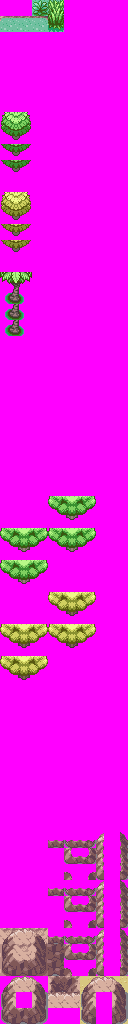
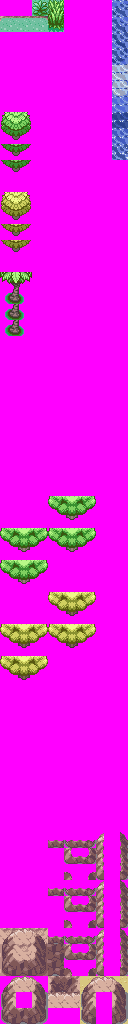
[PBL] porytiles water animations

Changed region(s): [[0.875, 0.0, 1.0, 0.1562]]

diff --git a/src/tileset_anims.c b/src/tileset_anims.c
@@ -1186,3 +1186,42 @@ static void BlendAnimPalette_BattleDome_FloorLightsNoBlend(u16 timer)
             sSecondaryTilesetAnimCallback = NULL;
     }
 }
+
+const u16 gTilesetAnims_Common_Water_Frame0[] = INCBIN_U16("data/tilesets/primary/common/anim/water/0.4bpp");
+const u16 gTilesetAnims_Common_Water_Frame1[] = INCBIN_U16("data/tilesets/primary/common/anim/water/1.4bpp");
+const u16 gTilesetAnims_Common_Water_Frame2[] = INCBIN_U16("data/tilesets/primary/common/anim/water/2.4bpp");
+const u16 gTilesetAnims_Common_Water_Frame3[] = INCBIN_U16("data/tilesets/primary/common/anim/water/3.4bpp");
+const u16 gTilesetAnims_Common_Water_Frame4[] = INCBIN_U16("data/tilesets/primary/common/anim/water/4.4bpp");
+const u16 gTilesetAnims_Common_Water_Frame5[] = INCBIN_U16("data/tilesets/primary/common/anim/water/5.4bpp");
+const u16 gTilesetAnims_Common_Water_Frame6[] = INCBIN_U16("data/tilesets/primary/common/anim/water/6.4bpp");
+const u16 gTilesetAnims_Common_Water_Frame7[] = INCBIN_U16("data/tilesets/primary/common/anim/water/7.4bpp");
+
+const u16 *const gTilesetAnims_Common_Water[] = {
+    gTilesetAnims_Common_Water_Frame0,
+    gTilesetAnims_Common_Water_Frame1,
+    gTilesetAnims_Common_Water_Frame2,
+    gTilesetAnims_Common_Water_Frame3,
+    gTilesetAnims_Common_Water_Frame4,
+    gTilesetAnims_Common_Water_Frame5,
+    gTilesetAnims_Common_Water_Frame6,
+    gTilesetAnims_Common_Water_Frame7
+};
+
+static void QueueAnimTiles_Common_Water(u16 timer)
+{
+    u8 i = timer % ARRAY_COUNT(gTilesetAnims_Common_Water);
+    AppendTilesetAnimToBuffer(gTilesetAnims_Common_Water[i], (u16 *)(BG_VRAM + TILE_OFFSET_4BPP(1)), 40 * TILE_SIZE_4BPP);
+}
+
+static void TilesetAnim_Common(u16 timer)
+{
+    if (timer % 16 == 1)
+        QueueAnimTiles_Common_Water(timer / 16);
+}
+
+void InitTilesetAnim_Common(void)
+{
+    sPrimaryTilesetAnimCounter = 0;
+    sPrimaryTilesetAnimCounterMax = 256;
+    sPrimaryTilesetAnimCallback = TilesetAnim_Common;
+}

diff --git a/src/data/tilesets/headers.h b/src/data/tilesets/headers.h
@@ -894,5 +894,5 @@ const struct Tileset gTileset_Common =
     .palettes = gTilesetPalettes_Common,
     .metatiles = gMetatiles_Common,
     .metatileAttributes = gMetatileAttributes_Common,
-    .callback = NULL,
+    .callback = InitTilesetAnim_Common,
 };

diff --git a/include/tileset_anims.h b/include/tileset_anims.h
@@ -32,4 +32,6 @@ void InitTilesetAnim_EliteFour(void);
 void InitTilesetAnim_BattleDome(void);
 void InitTilesetAnim_BattlePyramid(void);
 
+void InitTilesetAnim_Common(void);
+
 #endif // GUARD_TILESET_ANIMS_H
